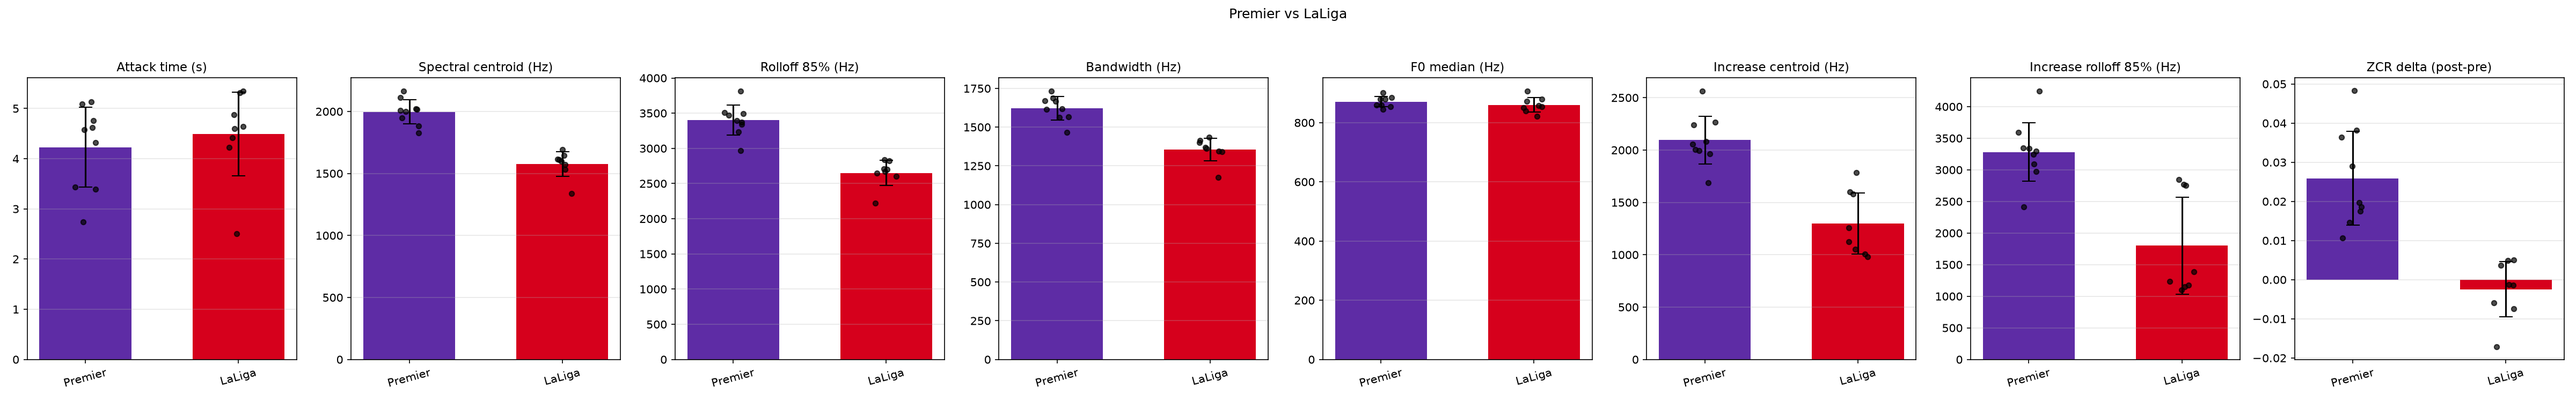
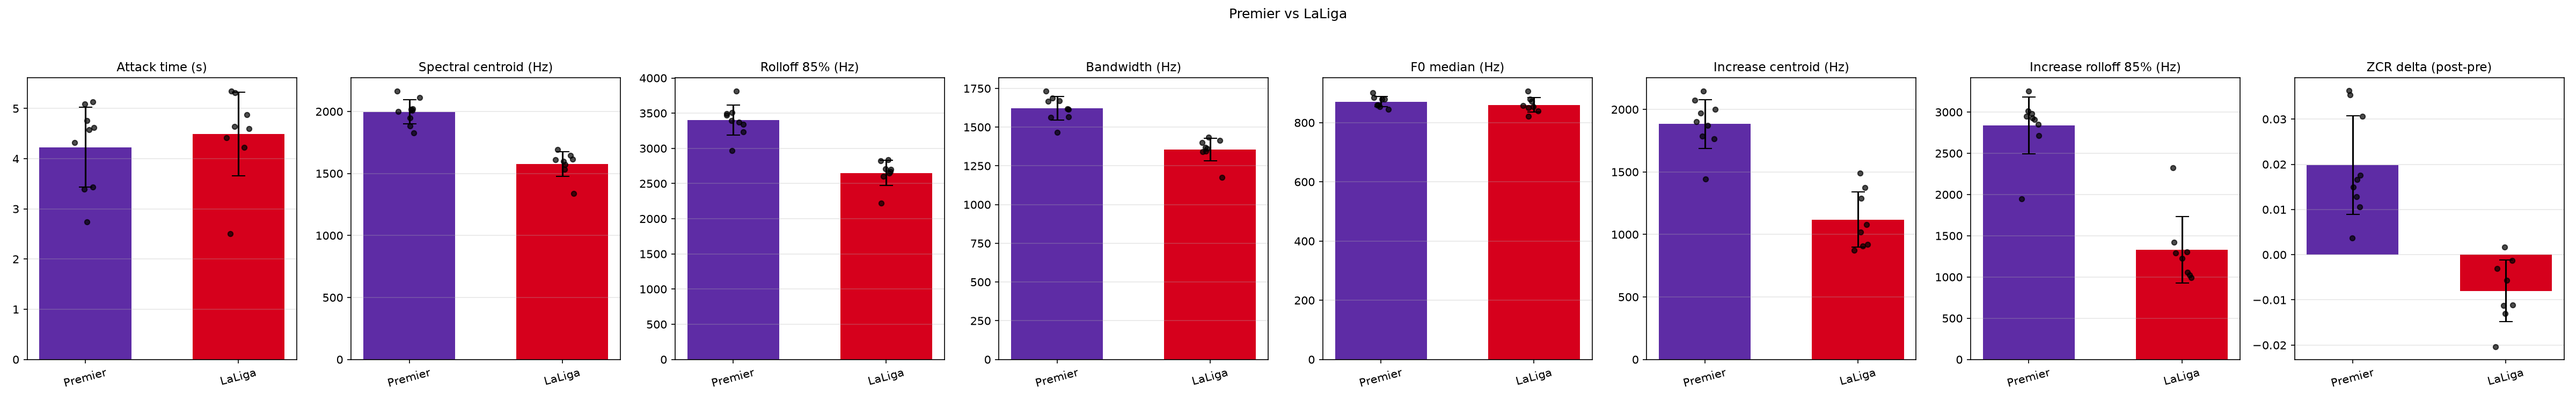
Use a symmetric, mark-centered window for the before/after comparisons
The pre/post windows used by _increase_spectrum and the
zero_crossing_rate delta previously didn't actually split at the
marked moment: the pre window ended 0.5s before it, and the post
window (reusing the primary spectral_window_pre_s/_post_s params
verbatim) started 0.5s *before* it too, leaving the half-second right
before the mark counted as "post" and creating an asymmetric split
that wasn't obvious from reading the code -- confirmed by having to
correct my own explanation of it twice when asked to clarify.

Replaced with a single increase_window_s parameter (default 2.0, down
from the prior 3.0s pre-window / 2.5s post-window pair -- a shorter
window lowers the chance of a post-goal window reaching into a
stadium jingle or other production sound): pre = [mark -
increase_window_s, mark), post = [mark, mark + increase_window_s).
Split exactly at the mark, no gap, no overlap, independent of the
primary spectral_window_pre_s/_post_s (which still starts slightly
before the mark, by design, to describe the reaction's attack on its
own -- that's a different, standalone feature from this before/after
comparison and intentionally keeps its own window).

_pre_goal_window renamed to _relative_window and generalized to slice
an arbitrary [start_s, end_s) offset from the mark, since it's now
used for both the pre and post sides.

Re-ran the full 17-clip comparison with the corrected windows: results
holding up, several metrics (increase_rolloff85_hz especially) came
[…]

diff --git a/src/goal_audio_analysis/features.py b/src/goal_audio_analysis/features.py
@@ -155,13 +155,17 @@ def _increase_spectrum(
     return centroid, rolloff85, bandwidth, flatness
 
 
-def _pre_goal_window(y: np.ndarray, sr: int, peak_time: float, pre_start_s: float, pre_end_s: float) -> Optional[np.ndarray]:
-    """Slice out the pre-goal baseline window used by `_increase_spectrum` and the zero_crossing_rate delta."""
-    pre_s = max(0.0, peak_time + pre_start_s)
-    pre_e = max(0.0, peak_time + pre_end_s)
-    if pre_e - pre_s < 0.1:
+def _relative_window(y: np.ndarray, sr: int, peak_time: float, start_s: float, end_s: float) -> Optional[np.ndarray]:
+    """Slice out `[peak_time + start_s, peak_time + end_s)`, clamped to not start before 0.
+
+    Used for the pre/post-goal baseline windows shared by `_increase_spectrum`
+    and the zero_crossing_rate before/after delta.
+    """
+    w_s = max(0.0, peak_time + start_s)
+    w_e = max(0.0, peak_time + end_s)
+    if w_e - w_s < 0.1:
         return None
-    return y[int(pre_s * sr):int(pre_e * sr)]
+    return y[int(w_s * sr):int(w_e * sr)]
 
 
 def analyze_clip(
@@ -169,8 +173,7 @@ def analyze_clip(
     sr: int = 22050,
     spectral_window_pre_s: float = 0.5,
     spectral_window_post_s: float = 2.5,
-    increase_pre_start_s: float = -3.0,
-    increase_pre_end_s: float = -0.5,
+    increase_window_s: float = 2.0,
     with_formants: bool = True,
 ) -> ClipFeatures:
     """Extract acoustic features from one audio clip.
@@ -181,14 +184,18 @@ def analyze_clip(
     `_load_human_mark` for why. Spectral / pitch / formant features are
     computed on a window centered on that marked moment
     (`spectral_window_pre_s` before it to `spectral_window_post_s` after
-    it). The `increase_*` fields instead describe what's *new* relative to
-    a pre-goal baseline window (`increase_pre_start_s` to
-    `increase_pre_end_s` before the marked moment) -- see
-    `_increase_spectrum`. `zero_crossing_rate_pre`/`_delta` apply the same
-    before/after comparison to zero-crossing rate, which (unlike the
-    spectral_* fields) is a single time-domain scalar rather than a
-    per-frequency-bin quantity, so it's compared as a plain before/after
-    delta instead of being recomputed on a difference spectrum.
+    it).
+
+    The `increase_*` and `zero_crossing_rate_pre`/`_delta` fields instead
+    compare a pre-goal baseline window against a post-goal window, split
+    symmetrically at the marked moment itself: `increase_window_s` before
+    it (the baseline) vs. `increase_window_s` after it (the reaction) --
+    see `_increase_spectrum`. This is a separate, independently-sized
+    window from `spectral_window_pre_s`/`_post_s` above, which exists only
+    to describe the post-goal sound on its own (and starts slightly before
+    the marked moment to capture the reaction's attack). `increase_*`
+    fields need a clean, non-overlapping before/after split instead, so
+    they don't share that window.
     """
     path = Path(path)
 
@@ -227,17 +234,18 @@ def analyze_clip(
     f0_voiced = f0[~np.isnan(f0)]
 
     zcr_post_val = float(np.mean(zcr))
-    y_pre = _pre_goal_window(y, sr, peak_time, increase_pre_start_s, increase_pre_end_s)
-    if y_pre is not None and len(y_pre) > 0:
+    y_pre = _relative_window(y, sr, peak_time, -increase_window_s, 0.0)
+    y_post_for_delta = _relative_window(y, sr, peak_time, 0.0, increase_window_s)
+    if y_pre is not None and len(y_pre) > 0 and y_post_for_delta is not None and len(y_post_for_delta) > 0:
         zcr_pre_val = float(np.mean(librosa.feature.zero_crossing_rate(y=y_pre)[0]))
-        zcr_delta_val = zcr_post_val - zcr_pre_val
+        zcr_delta_val = float(np.mean(librosa.feature.zero_crossing_rate(y=y_post_for_delta)[0])) - zcr_pre_val
     else:
         zcr_pre_val = zcr_delta_val = None
 
     increase = _increase_spectrum(
         y, sr, peak_time,
-        increase_pre_start_s, increase_pre_end_s,
-        -spectral_window_pre_s, spectral_window_post_s,
+        -increase_window_s, 0.0,
+        0.0, increase_window_s,
     )
     if increase is not None:
         inc_centroid, inc_rolloff85, inc_bandwidth, inc_flatness = increase
